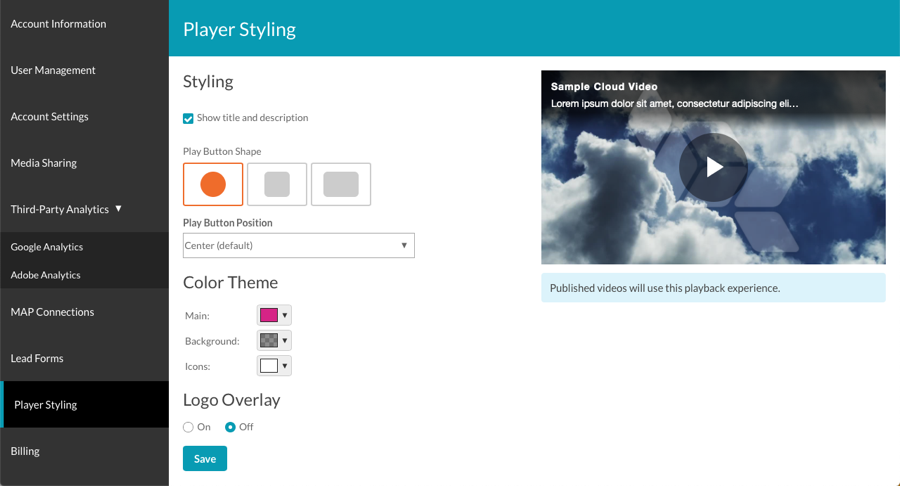
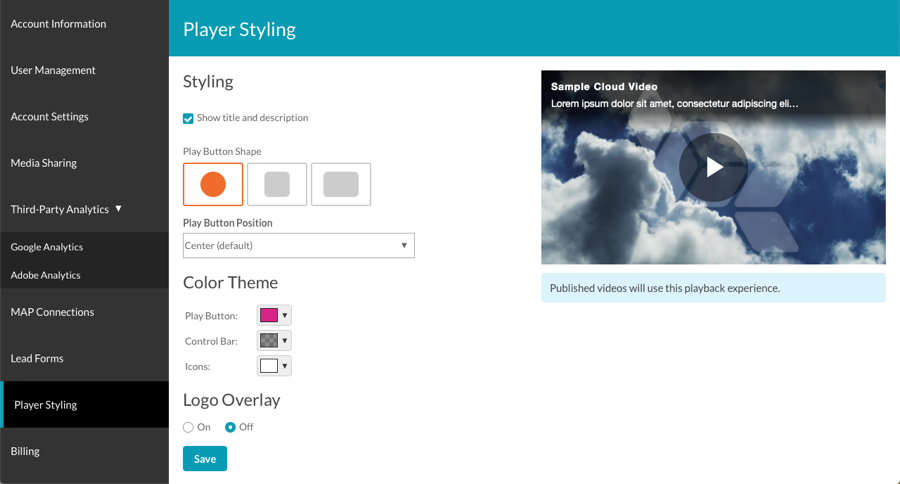
update player styling doc

diff --git a/_site/admin/styling-players.html b/_site/admin/styling-players.html
@@ -432,8 +432,8 @@ function doGTranslate(lang_pair) {if(lang_pair.value)lang_pair=lang_pair.value;i
     <figure class="bcls-figure"><img class="bcls-image--no-border" alt="" src="/assets/images/admin/styling-player-controls.png" /></figure>
     <p>The following theme colors can be configured:</p>
     <ul>
-      <li><strong>Main</strong> - Controls the color of the big play button, progress bar and volume level</li>
-      <li><strong>Background</strong> - Controls the background color of the player controls</li>
+      <li><strong>Play Button</strong> - Controls the color of the big play button, progress bar and volume level</li>
+      <li><strong>Control Bar</strong> - Controls the background color of the player controls</li>
       <li><strong>Icons</strong> - Controls the color of the arrow in the play button and the icons in the player control bar</li>
     </ul>
     <p>To change a theme color:</p>

diff --git a/admin/styling-players.html b/admin/styling-players.html
@@ -56,8 +56,8 @@ parent: Administering Accounts
     <figure class="bcls-figure"><img class="bcls-image--no-border" alt="" src="/assets/images/admin/styling-player-controls.png" /></figure>
     <p>The following theme colors can be configured:</p>
     <ul>
-      <li><strong>Main</strong> - Controls the color of the big play button, progress bar and volume level</li>
-      <li><strong>Background</strong> - Controls the background color of the player controls</li>
+      <li><strong>Play Button</strong> - Controls the color of the big play button, progress bar and volume level</li>
+      <li><strong>Control Bar</strong> - Controls the background color of the player controls</li>
       <li><strong>Icons</strong> - Controls the color of the arrow in the play button and the icons in the player control bar</li>
     </ul>
     <p>To change a theme color:</p>
